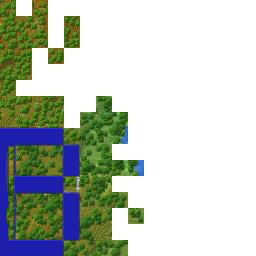
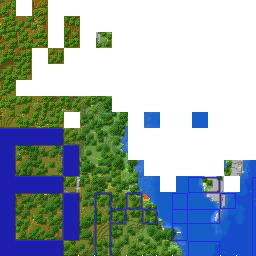
map update

diff --git a/public/unmined/unmined.map.regions.js b/public/unmined/unmined.map.regions.js
@@ -1,6 +1,6 @@
 var UnminedRegions = [
 { x: 0, z: 0, m: new Uint32Array([524289,0,0,0,0,0,0,0,0,0,0,0,0,0,0,0,0,786432,786432,524288,0,0,0,0,0,0,0,0,0,0,0,0,0,0,0,0,0,0,0,0,0,0,0,0,0,0,0,0,0,0,0,0,0,0,0,0,0,0,0,0,0,0,0,0,0,0,0,0,0,0,0,0,0,0,0,0,0,0,0,0,0,0,0,0,0,0,0,0,0,0,0,0,0,0,0,0,0,0,0,0,0,0,0,0,0,0,0,0,0,0,0,0,0,0,0,0,0,0,0,0,0,0,0,0,0,0,0,0,0,0,0,0,0,0,0,0,0,0,0,0,0,0,0,0,0,0,0,0,0,0,0,0,0,0,0,0,0,0,0,0,0,0,0,0,0,0,0,0,0,0,0,0,0,0,0,0,0,0,0,0,0,0,0,0,0,0,0,0,0,0,0,0,0,0,0,0,0,0,0,0,0,0,0,0,0,0,0,0,0,0,0,0,0,0,0,0,0,0,0,0,0,0,0,0,0,0,0,0,0,0,0,0,0,0,0,0,0,0,0,0,0,0,0,0,0,0,0,0,0,0,0,0,0,0,0,0]) },
+{ x: -1, z: 0, m: new Uint32Array([3221286912,2147532800,0,0,0,0,0,0,0,0,0,0,0,0,0,0,0,0,0,0,0,0,0,0,0,0,0,0,0,0,0,0,0,0,0,0,0,0,0,0,0,0,0,0,0,0,0,0,0,0,0,0,0,0,0,0,0,0,0,0,0,0,0,0,0,0,0,0,0,0,0,0,0,0,0,0,0,0,0,0,0,0,0,0,0,0,0,0,0,0,0,0,0,0,0,0,0,0,0,0,0,0,0,0,0,0,0,0,0,0,0,0,0,0,0,0,0,0,0,0,0,0,0,0,0,0,0,0,0,0,0,0,0,0,0,0,0,0,0,0,0,0,0,0,0,0,0,0,0,0,0,0,0,0,0,0,0,0,0,0,0,0,0,0,0,0,0,0,0,0,0,0,0,0,0,0,0,0,0,0,0,0,0,0,0,0,0,0,0,0,0,0,0,0,0,0,0,0,0,0,0,0,0,0,0,0,0,0,0,0,0,0,0,0,0,0,0,0,0,0,0,0,0,0,0,0,0,0,0,0,0,0,0,0,0,0,0,0,0,0,0,0,0,0,0,0,0,0,0,0,0,0,0,0,0,0]) },
+{ x: -1, z: -1, m: new Uint32Array([0,0,0,0,0,0,0,0,0,0,0,0,2147483648,0,0,0,0,0,0,0,0,0,0,0,0,0,0,0,0,2147483648,2147483648,3221254144,0,0,0,0,0,0,0,0,0,0,0,0,0,0,0,0,0,0,0,0,0,0,0,0,0,0,0,0,0,0,0,0,0,0,0,0,0,0,0,0,0,0,0,0,0,0,0,0,0,0,0,0,0,0,0,0,0,0,0,0,0,0,0,0,0,0,0,0,0,0,0,0,0,0,0,0,0,0,0,0,0,0,0,0,0,0,0,0,0,0,0,0,0,0,0,0,0,0,0,0,0,0,0,0,0,0,0,0,0,0,0,0,0,0,0,0,0,0,0,0,0,0,0,0,0,0,0,0,0,0,0,0,0,0,0,0,0,0,0,0,0,0,0,0,0,0,0,0,0,0,0,0,0,0,0,0,0,0,0,0,0,0,0,0,0,0,0,0,0,0,0,0,0,0,0,0,0,0,0,0,0,0,0,0,0,0,0,0,0,0,0,0,0,0,0,0,0,0,0,0,0,0,0,0,0,0,0,0,0,0,0,0,0,0,0,0,0,0,0,0,0,0,0,0]) },
 { x: 0, z: -1, m: new Uint32Array([0,0,0,0,0,0,0,0,0,0,0,0,1,0,0,0,0,0,0,0,0,0,0,0,0,0,0,0,2,3,1,3,0,0,0,0,0,0,0,0,0,0,0,0,0,0,0,0,0,0,0,0,0,0,0,0,0,0,0,0,0,0,0,0,0,0,0,0,0,0,0,0,0,0,0,0,0,0,0,0,0,0,0,0,0,0,0,0,0,0,0,0,0,0,0,0,0,0,0,0,0,0,0,0,0,0,0,0,0,0,0,0,0,0,0,0,0,0,0,0,0,0,0,0,0,0,0,0,0,0,0,0,0,0,0,0,0,0,0,0,0,0,0,0,0,0,0,0,0,0,0,0,0,0,0,0,0,0,0,0,0,0,0,0,0,0,0,0,0,0,0,0,0,0,0,0,0,0,0,0,0,0,0,0,0,0,0,0,0,0,0,0,0,0,0,0,0,0,0,0,0,0,0,0,0,0,0,0,0,0,0,0,0,0,0,0,0,0,0,0,0,0,0,0,0,0,0,0,0,0,0,0,0,0,0,0,0,0,0,0,0,0,0,0,0,0,0,0,0,0,0,0,0,0,0,0]) },
-{ x: -1, z: 0, m: new Uint32Array([3221229568,2147483648,0,0,0,0,0,0,0,0,0,0,0,0,0,0,0,0,0,0,0,0,0,0,0,0,0,0,0,0,0,0,0,0,0,0,0,0,0,0,0,0,0,0,0,0,0,0,0,0,0,0,0,0,0,0,0,0,0,0,0,0,0,0,0,0,0,0,0,0,0,0,0,0,0,0,0,0,0,0,0,0,0,0,0,0,0,0,0,0,0,0,0,0,0,0,0,0,0,0,0,0,0,0,0,0,0,0,0,0,0,0,0,0,0,0,0,0,0,0,0,0,0,0,0,0,0,0,0,0,0,0,0,0,0,0,0,0,0,0,0,0,0,0,0,0,0,0,0,0,0,0,0,0,0,0,0,0,0,0,0,0,0,0,0,0,0,0,0,0,0,0,0,0,0,0,0,0,0,0,0,0,0,0,0,0,0,0,0,0,0,0,0,0,0,0,0,0,0,0,0,0,0,0,0,0,0,0,0,0,0,0,0,0,0,0,0,0,0,0,0,0,0,0,0,0,0,0,0,0,0,0,0,0,0,0,0,0,0,0,0,0,0,0,0,0,0,0,0,0,0,0,0,0,0,0]) },
-{ x: -1, z: -1, m: new Uint32Array([0,0,0,0,0,0,0,0,0,0,0,0,2147483648,0,0,0,0,0,0,0,0,0,0,0,0,0,0,0,0,2147483648,2147483648,3221229568,0,0,0,0,0,0,0,0,0,0,0,0,0,0,0,0,0,0,0,0,0,0,0,0,0,0,0,0,0,0,0,0,0,0,0,0,0,0,0,0,0,0,0,0,0,0,0,0,0,0,0,0,0,0,0,0,0,0,0,0,0,0,0,0,0,0,0,0,0,0,0,0,0,0,0,0,0,0,0,0,0,0,0,0,0,0,0,0,0,0,0,0,0,0,0,0,0,0,0,0,0,0,0,0,0,0,0,0,0,0,0,0,0,0,0,0,0,0,0,0,0,0,0,0,0,0,0,0,0,0,0,0,0,0,0,0,0,0,0,0,0,0,0,0,0,0,0,0,0,0,0,0,0,0,0,0,0,0,0,0,0,0,0,0,0,0,0,0,0,0,0,0,0,0,0,0,0,0,0,0,0,0,0,0,0,0,0,0,0,0,0,0,0,0,0,0,0,0,0,0,0,0,0,0,0,0,0,0,0,0,0,0,0,0,0,0,0,0,0,0,0,0,0,0]) },
 ];
